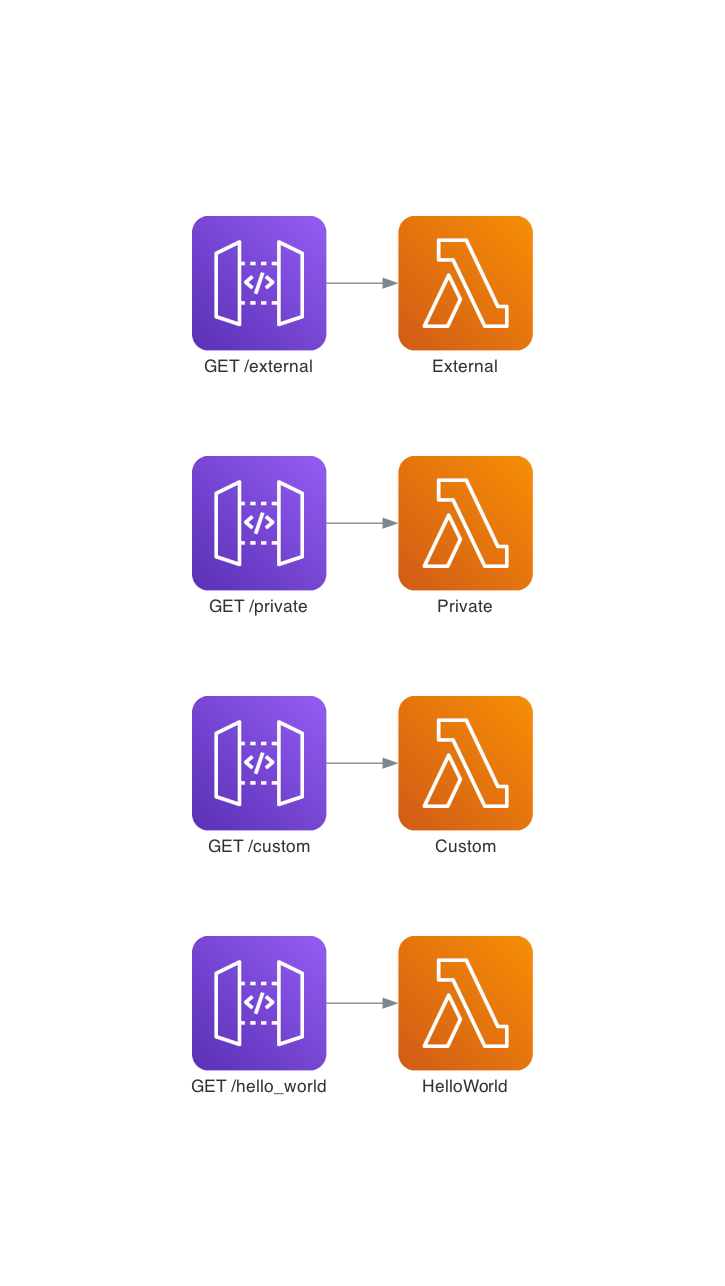
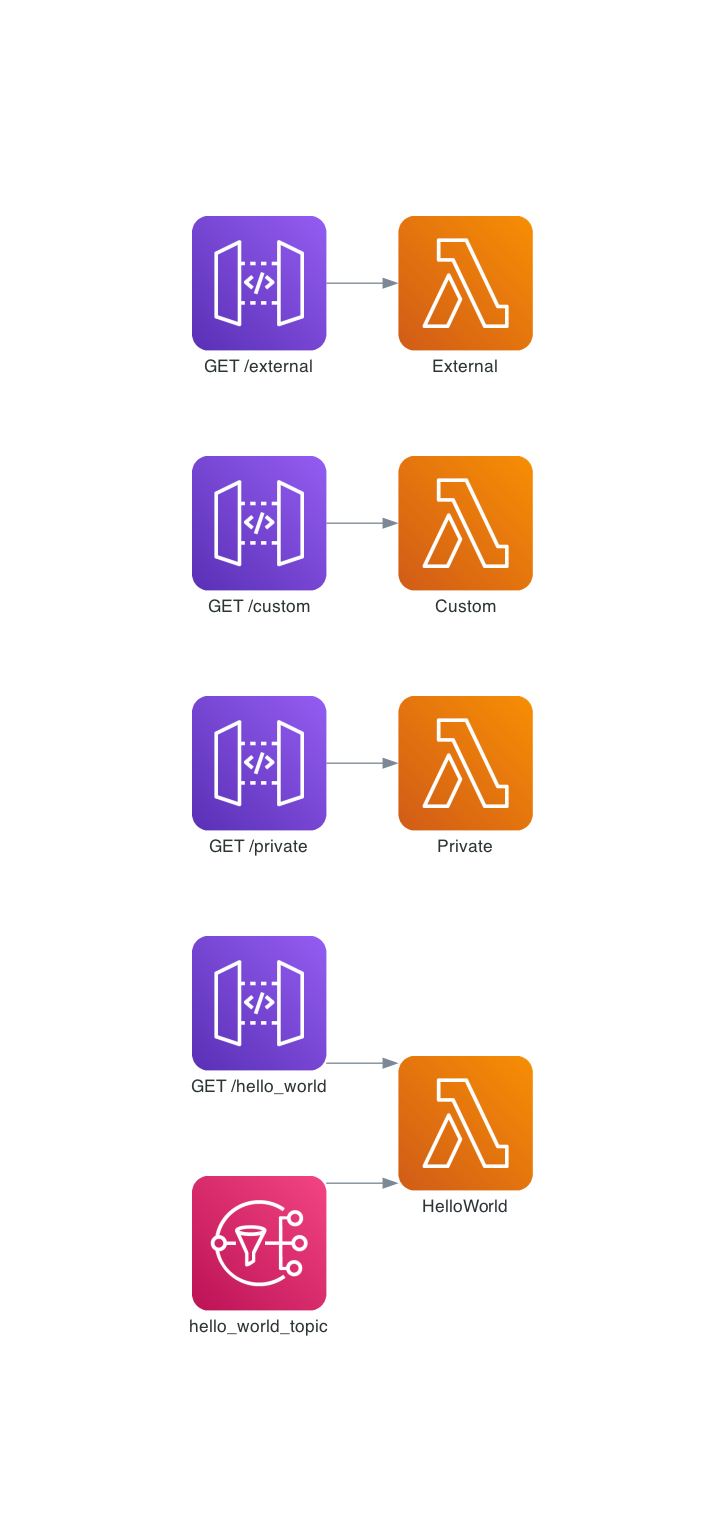
improving demo

Changed region(s): [[0.2428, 0.1244, 0.4552, 0.8709], [0.5159, 0.1244, 0.7586, 0.8709]]

diff --git a/demo/infra/stacks/staging_stack.py b/demo/infra/stacks/staging_stack.py
@@ -15,7 +15,7 @@ class StagingStack(cdk.Stack):
     def __init__(self, scope: Construct, context, **kwargs) -> None:
         super().__init__(scope, context.create_id("Stack"), **kwargs)
 
-        source = CodePipelineSource.git_hub(f"{context.repo['owner']}/{context.repo['name']}", "dev")
+        source = CodePipelineSource.git_hub(f"{context.repo['owner']}/{context.repo['name']}", "staging")
 
         pipeline = pipelines.CodePipeline(
             self,
@@ -37,7 +37,7 @@ class StagingStack(cdk.Stack):
         validate_docs = steps.validate_docs()
         validate_integration_tests = steps.validate_integration_tests()
         validate_todo = steps.custom_step(
-            name="ValidateTodo", commands=["cdk synth", "python infra/scripts/validate_todo.py"]
+            name="ValidateTodo", commands=["python infra/scripts/validate_todo.py"]
         )
 
         # post

diff --git a/demo/infra/services/sns.py b/demo/infra/services/sns.py
@@ -7,12 +7,11 @@ from lambda_forge.trackers import invoke, trigger
 class SNS:
     def __init__(self, scope, context) -> None:
 
-        # self.sns_topic = sns.Topic.from_topic_arn(
-        #     scope,
-        #     id="SNSTopic",
-        #     topic_arn=context.resources["arns"]["sns_topic_arn"],
-        # )
-        ...
+        self.hello_world_topic = sns.Topic.from_topic_arn(
+            scope,
+            id="HelloWorldTopic",
+            topic_arn=context.resources["arns"]["hello_world_topic"],
+        )
 
     @trigger(service="sns", trigger="topic", function="function")
     def create_trigger(self, topic, function):

diff --git a/demo/infra/stacks/prod_stack.py b/demo/infra/stacks/prod_stack.py
@@ -15,7 +15,7 @@ class ProdStack(cdk.Stack):
     def __init__(self, scope: Construct, context, **kwargs) -> None:
         super().__init__(scope, context.create_id("Stack"), **kwargs)
 
-        source = CodePipelineSource.git_hub(f"{context.repo['owner']}/{context.repo['name']}", "dev")
+        source = CodePipelineSource.git_hub(f"{context.repo['owner']}/{context.repo['name']}", "main")
 
         pipeline = pipelines.CodePipeline(
             self,

diff --git a/lambda_forge/steps.py b/lambda_forge/steps.py
@@ -146,9 +146,10 @@ class CodeBuildSteps:
         partial_build_spec={},
         requirements="requirements.txt",
     ):
+        
         return self.codebuild.create_step(
             name=name,
-            commands=commands,
+            commands=["cdk synth", *commands],
             docker_registry=docker_registry,
             install_commands=install_commands,
             partial_build_spec=partial_build_spec,

diff --git a/lambda_forge/builders/services/sqs.py b/lambda_forge/builders/services/sqs.py
@@ -5,12 +5,12 @@ from lambda_forge.trackers import invoke, trigger
 
 
 class SQS:
-    def __init__(self, scope, resources) -> None:
+    def __init__(self, scope, context) -> None:
 
         # self.sqs = sqs.Queue.from_queue_arn(
         #     scope,
         #     "SQS",
-        #     queue_arn=resources["arns"]["sqs_arn"],
+        #     queue_arn=context.resources["arns"]["sqs_arn"],
         # )
         ...
 

diff --git a/demo/infra/services/layers.py b/demo/infra/services/layers.py
@@ -16,6 +16,6 @@ class Layers:
 
         self.requests_layer = _lambda.LayerVersion.from_layer_version_arn(
             scope,
-            id="RequestsLayer",
-            layer_version_arn="arn:aws:lambda:us-east-2:770693421928:layer:Klayers-p39-requests:19",
-        )
+            id='RequestsLayer',
+            layer_version_arn='arn:aws:lambda:us-east-2:211125768252:layer:requests:2',
+         )

diff --git a/demo/infra/services/__init__.py b/demo/infra/services/__init__.py
@@ -1,3 +1,4 @@
+from infra.services.sns import SNS
 from infra.services.api_gateway import APIGateway
 from infra.services.aws_lambda import Lambda
 from infra.services.layers import Layers
@@ -8,3 +9,4 @@ class Services:
         self.api_gateway = APIGateway(scope, context)
         self.aws_lambda = Lambda(scope, context)
         self.layers = Layers(scope)
+        self.sns = SNS(scope, context)

diff --git a/demo/infra/stacks/lambda_stack.py b/demo/infra/stacks/lambda_stack.py
@@ -25,11 +25,11 @@ class LambdaStack(Stack):
         # HelloWorld
         HelloWorldConfig(self.services)
 
+        # # Private
+        PrivateConfig(self.services)
+        
         # Custom
         CustomConfig(self.services)
 
-        # Private
-        PrivateConfig(self.services)
-
-        # External
+        # # External
         ExternalConfig(self.services)

diff --git a/demo/docs/config.py b/demo/docs/config.py
@@ -17,3 +17,7 @@ class DocsConfig:
 
         # Coverage Report at /coverage
         services.api_gateway.create_docs(endpoint="/coverage", artifact="coverage", public=True, stages=["Staging"])
+
+        # Wiki at /wiki
+        # Use the Wiki's title as artifact
+        services.api_gateway.create_docs(endpoint="/wiki", artifact="Wiki", public=True)

diff --git a/demo/functions/hello_world/config.py b/demo/functions/hello_world/config.py
@@ -11,3 +11,5 @@ class HelloWorldConfig:
         )
 
         services.api_gateway.create_endpoint("GET", "/hello_world", function, public=True)
+
+        services.sns.create_trigger("hello_world_topic", function)
